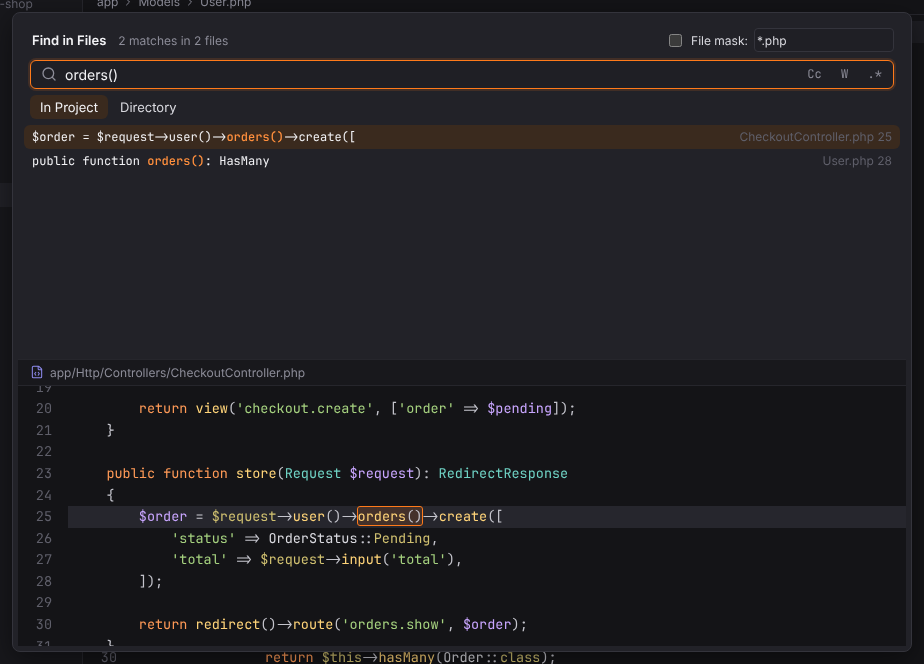
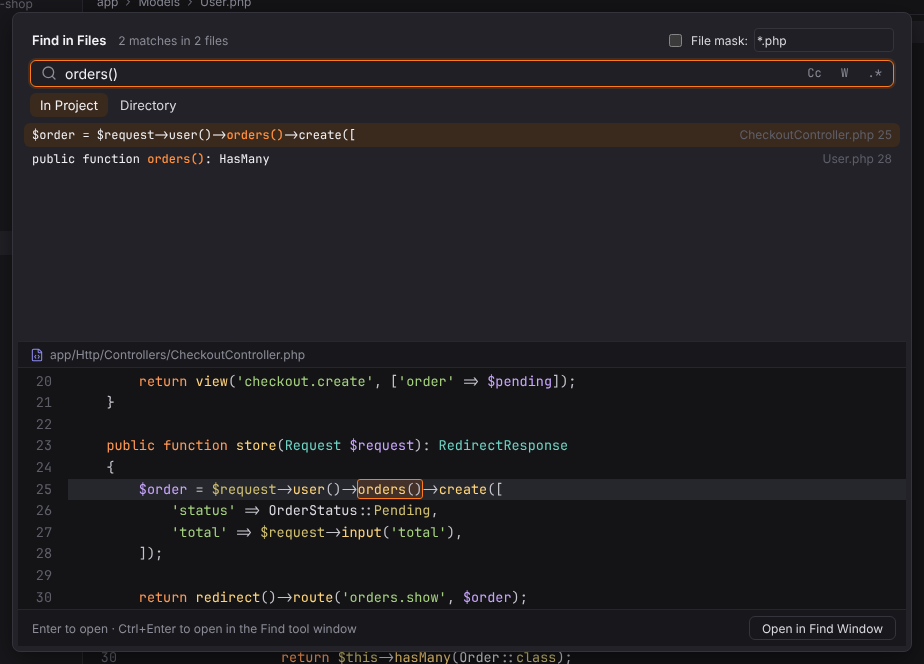
docs: add Next and Previous Occurrence to the Navigate menu and refresh menu screenshots

diff --git a/app/ui/src/features/codeintel/index.tsx b/app/ui/src/features/codeintel/index.tsx
@@ -21,6 +21,8 @@ import { syncNow } from "@/features/lsp/sync";
 import { toLsp } from "@/features/lsp/util";
 import { setImplementationNavigator } from "@/features/lsp/goto";
 import { isDialogWindow } from "@/shell/window/mode";
+import { registerMainMenuEntries } from "@/features/mainMenu";
+import { action as menuAction } from "@/features/mainMenu/model";
 import { FindTabs, FindToolWindow, findGroupByType } from "./FindToolWindow";
 import { ShowUsagesPopup } from "./ShowUsagesPopup";
 import { chooseTargetAt } from "./targets";
@@ -71,6 +73,9 @@ action("NextOccurence", "Next Occurrence", "Navigate", () => {
 });
 action("PreviousOccurence", "Previous Occurrence", "Navigate", () => {
   if (!gotoFindOccurrence(-1, findGroupByType())) showBalloon("There are no occurrences", "Search with Find Usages (Alt+F7) or Find in Files first.");
+});
+registerMainMenuEntries("Navigate", [menuAction("NextOccurence"), menuAction("PreviousOccurence")], {
+  after: "GotoPreviousError",
 });
 
 registerToolWindow({
